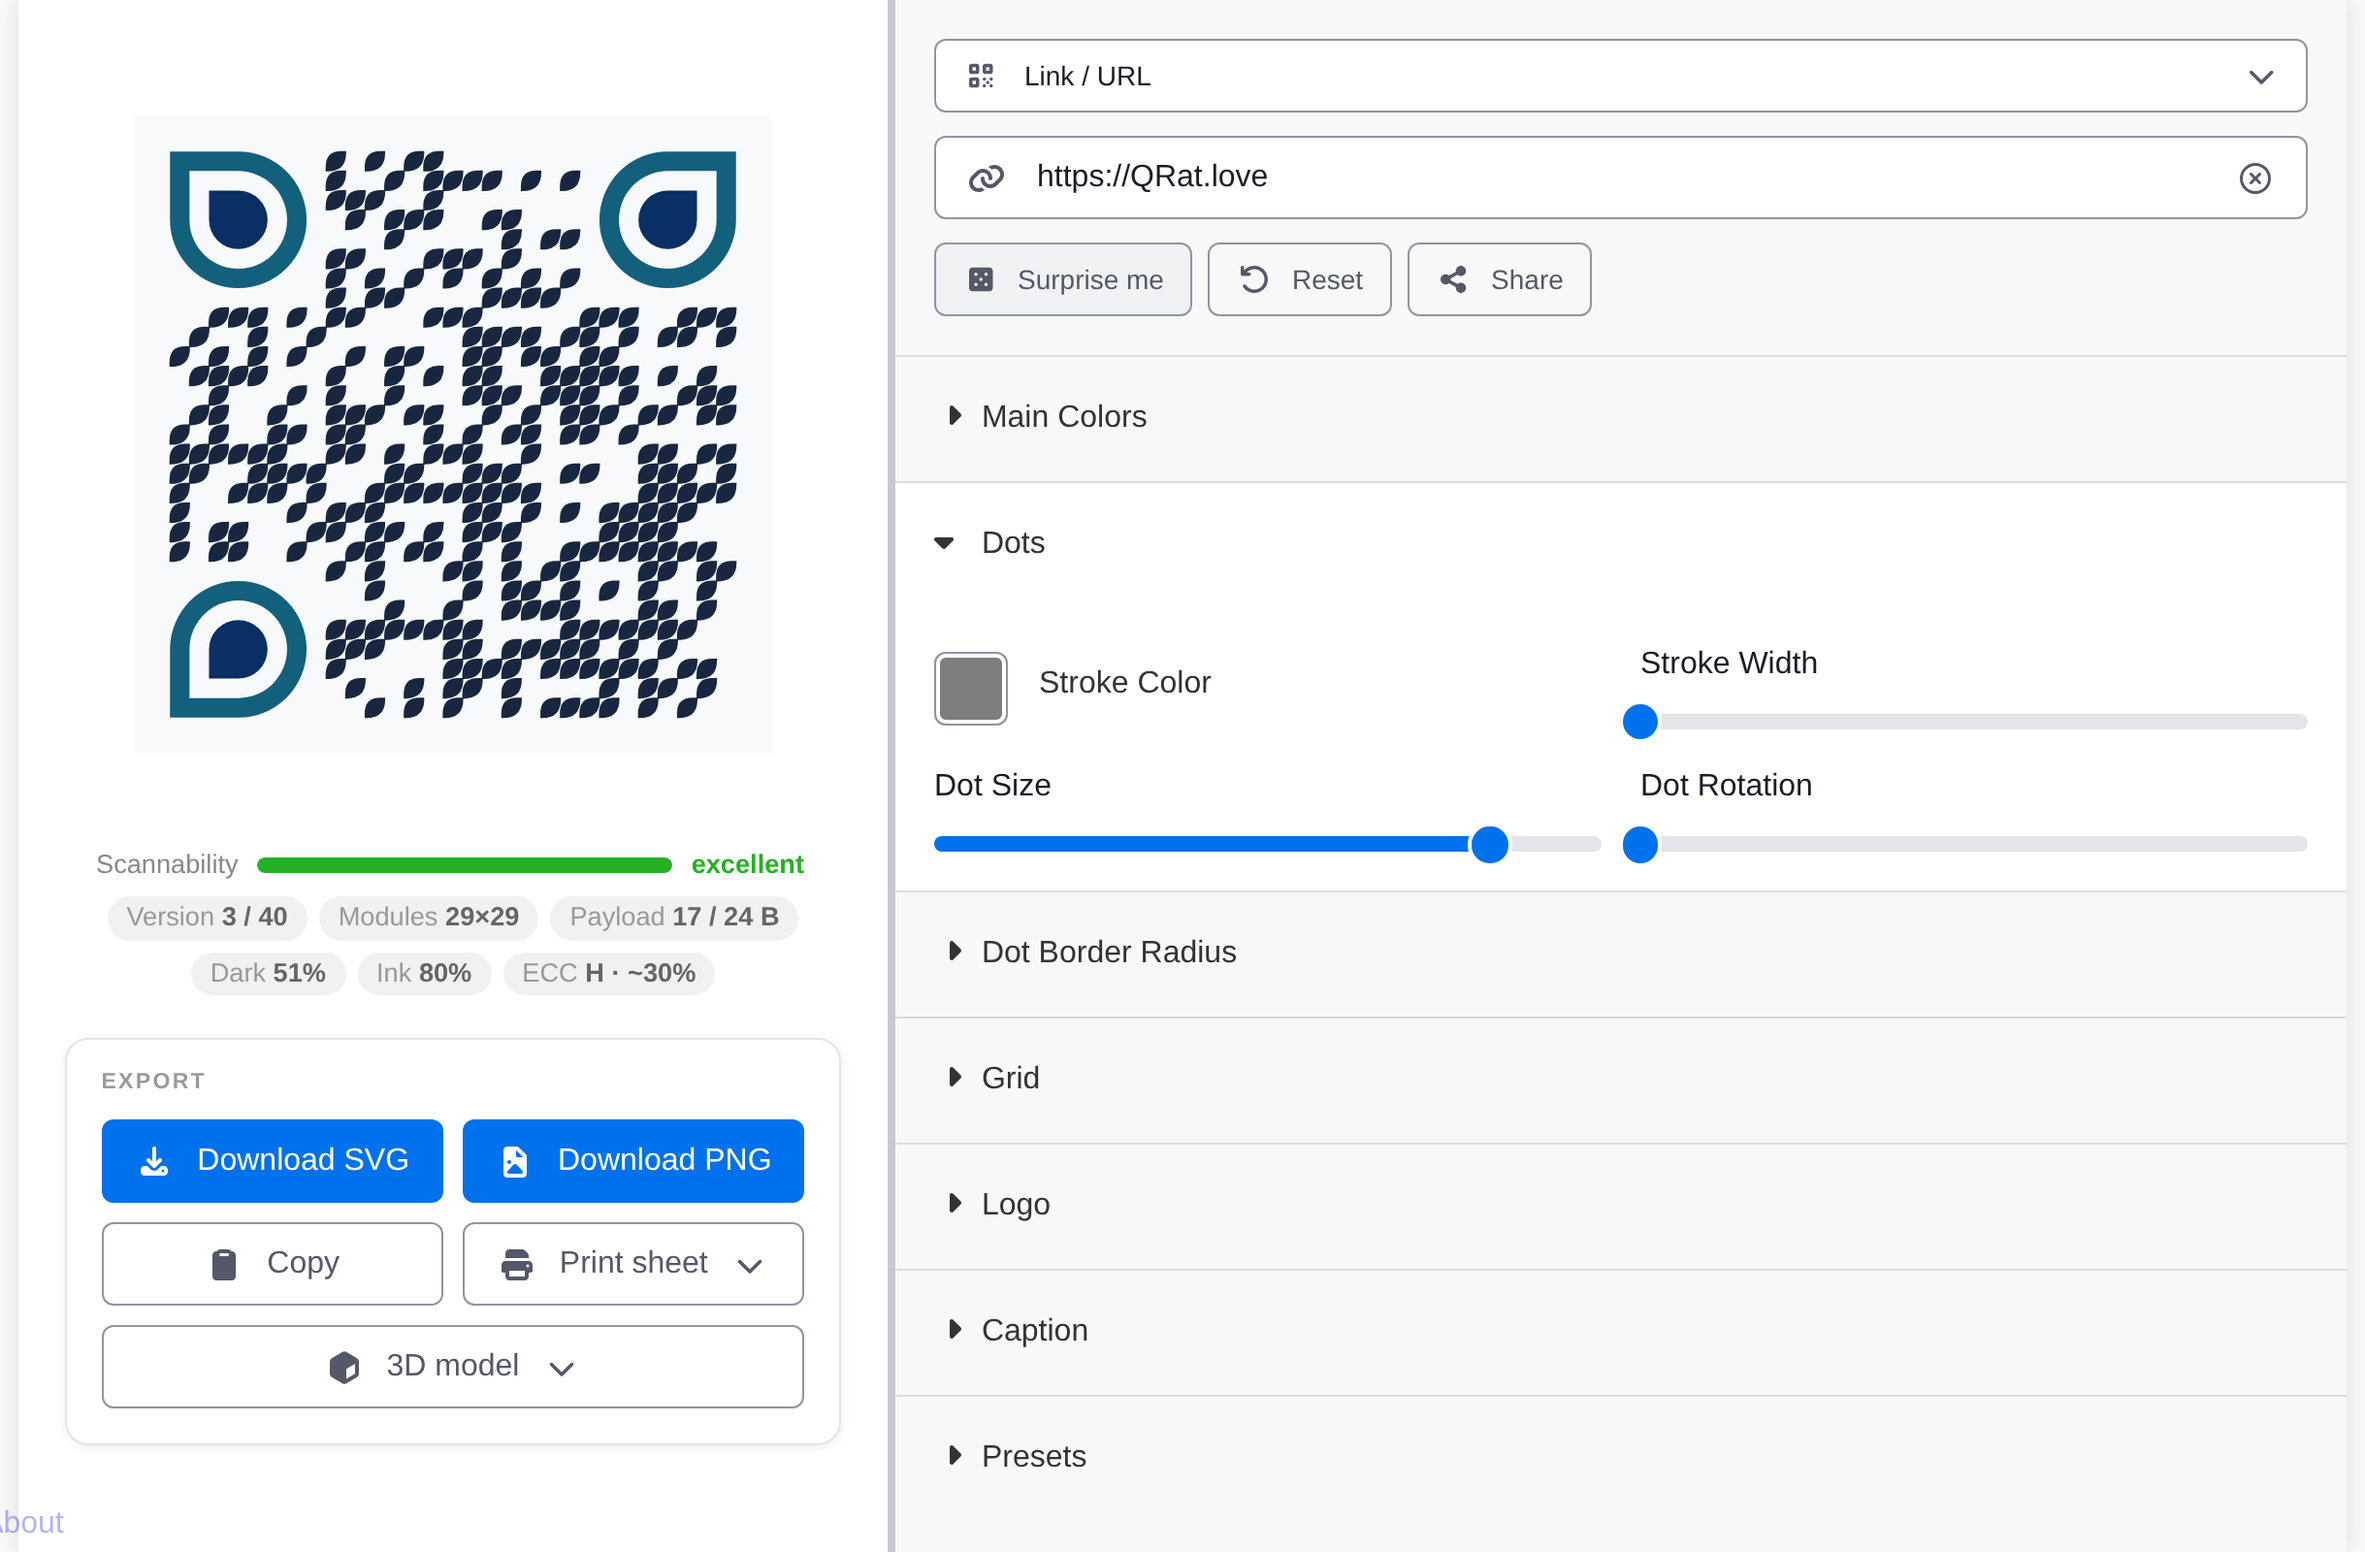
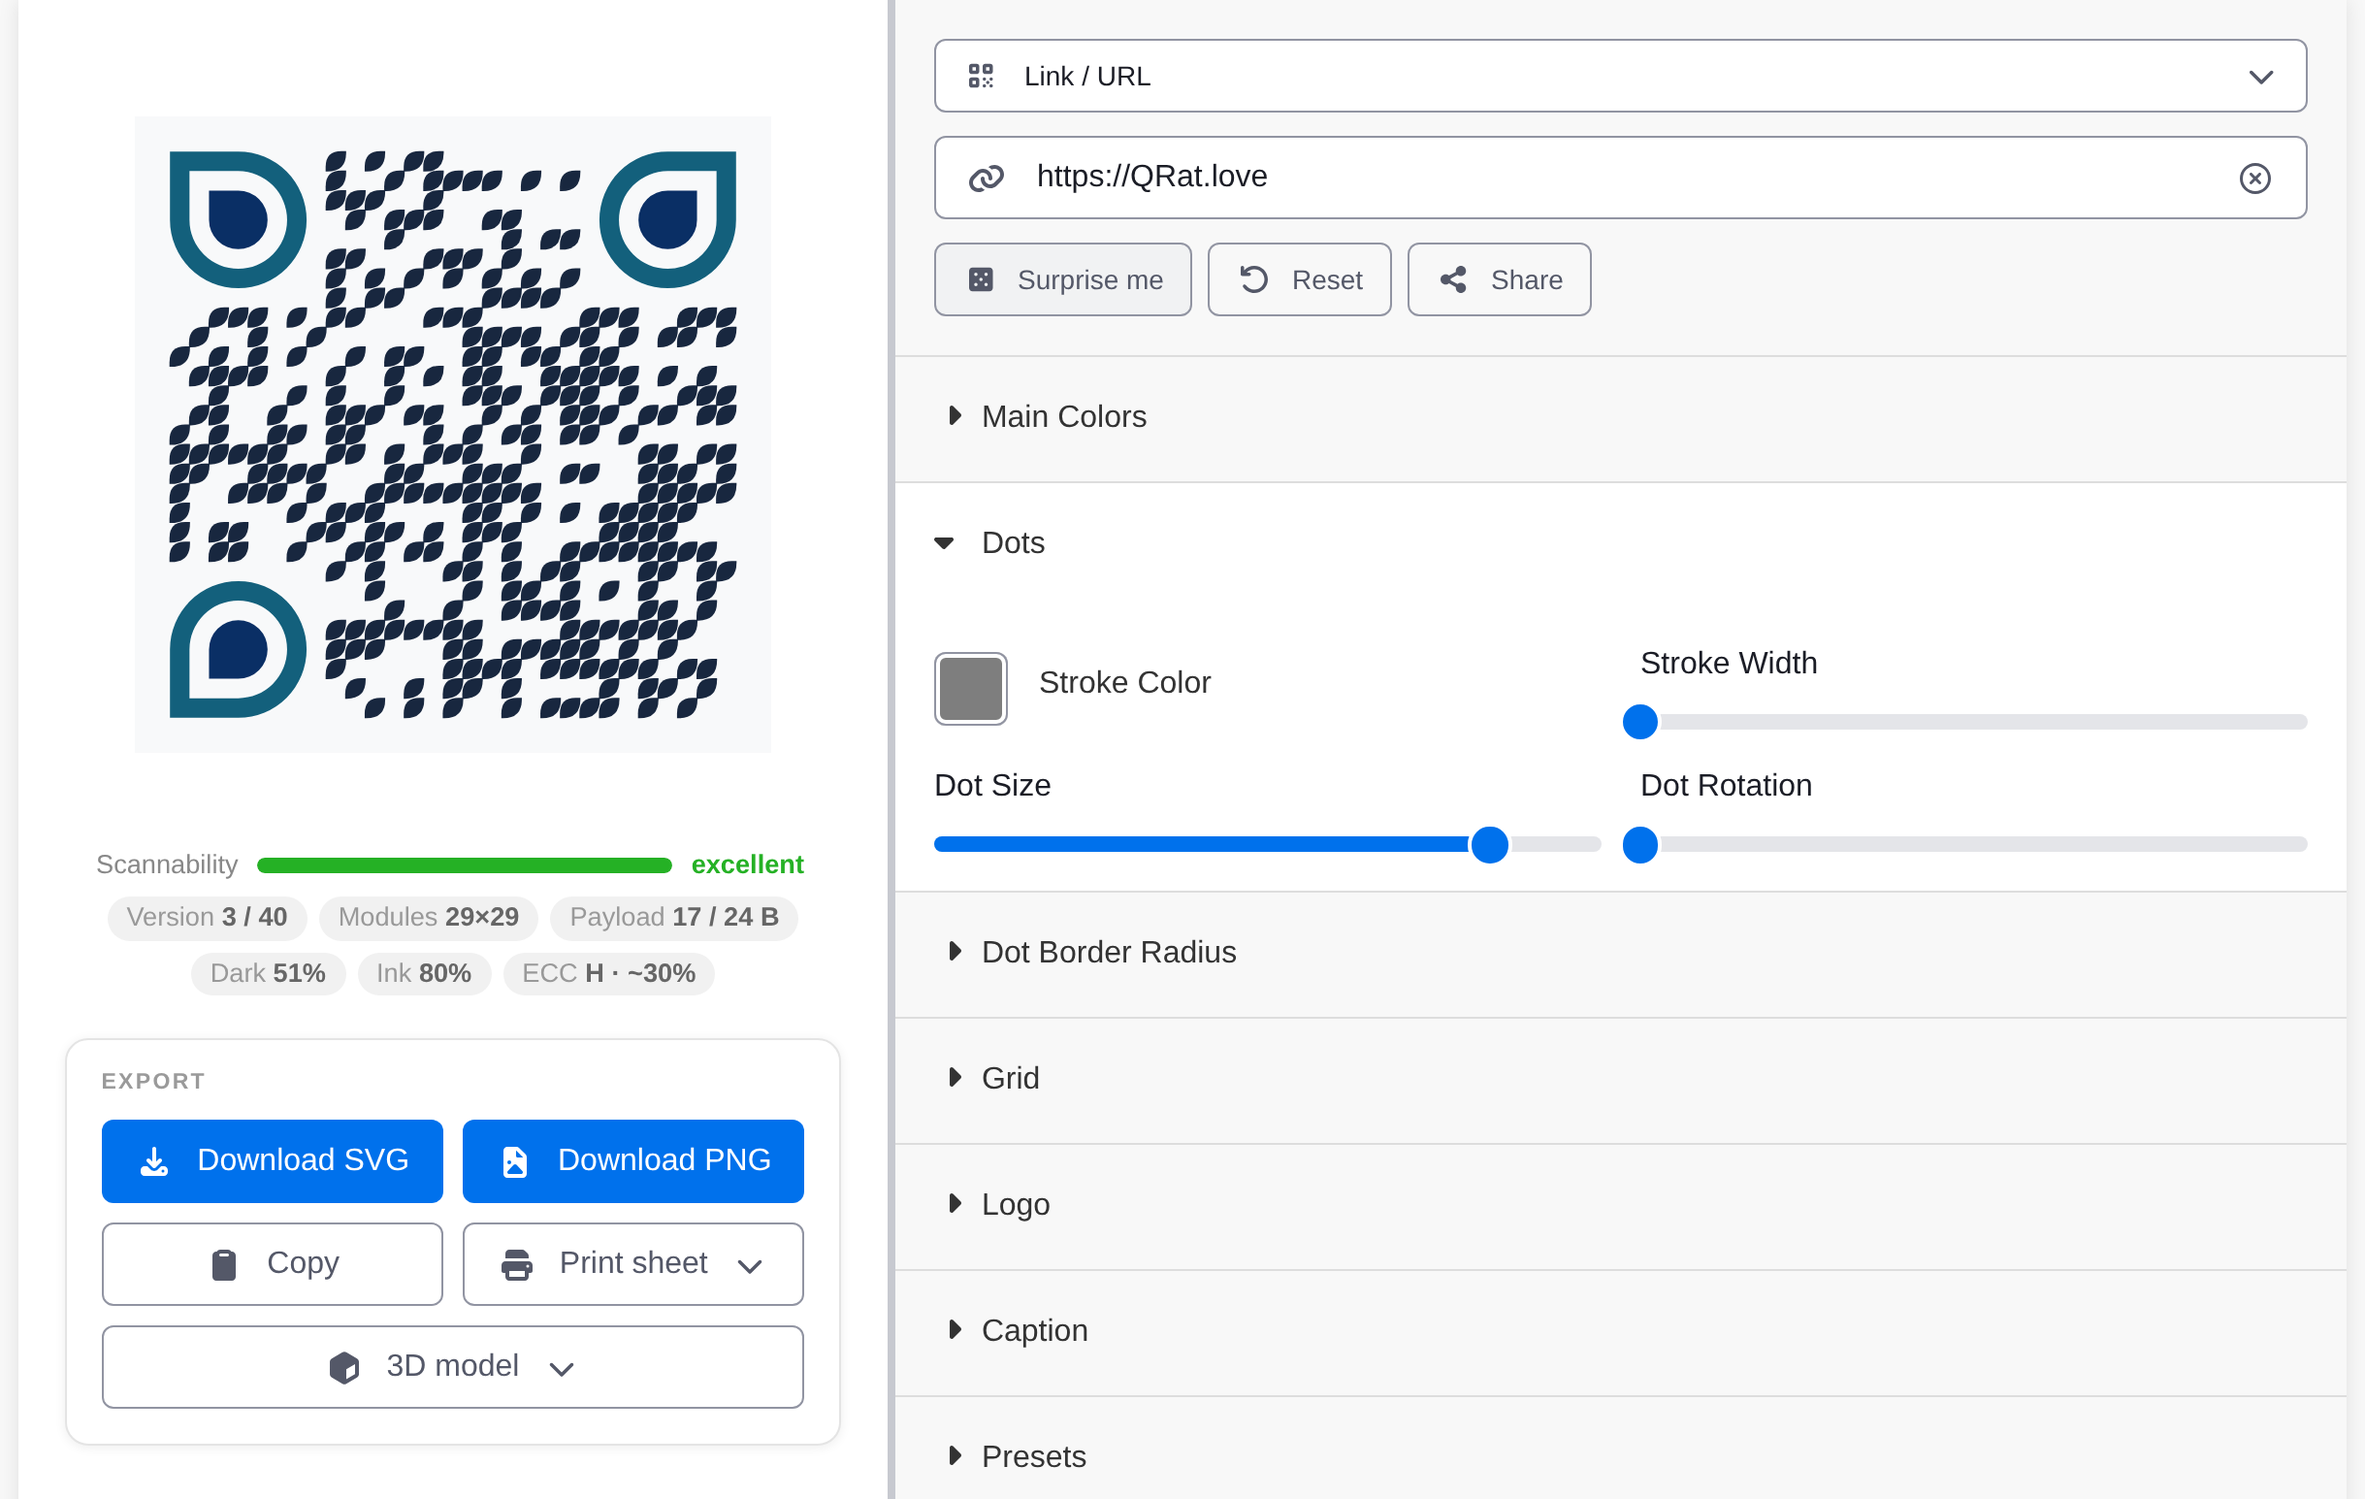
Credit RelayBar screenshot and fix review findings
L-K-M/RelayBar is a fork of lx2026/RelayBar, and its tunnels screenshot
was committed upstream by Lingxi Shang, so it is third-party MIT work
like the Scratch and Shiori images. Ship its notice with the others and
check for it in the test and the CI and release jobs.

Caption GitEnough's second Linux image too, call Kirsch's scan a sample
print, and crop a clipped footer link off the QRat capture.

diff --git a/catalogue/assets/README.md b/catalogue/assets/README.md
@@ -66,14 +66,16 @@ screenshots retain the upstream image data.
 | whatsapp-backup.png | `whatsapp-backup/screenshot.png` |
 | seance.png | `Hauntware/seance/screenshot.png` |
 
-Four images show work from upstream projects that L-K-M forked, not L-K-M's own.
+Five images show work from upstream projects that L-K-M forked, not L-K-M's own.
 `scratch.png` (unchanged) and `scratch-icon.png` (resized) are by Eric Li, from
 [erictli/scratch](https://github.com/erictli/scratch), MIT License. `shiori-web-ext.png`
 (unchanged) is by Radhi Fadlillah, from
 [go-shiori/shiori-web-ext](https://github.com/go-shiori/shiori-web-ext), MIT License,
 Copyright (c) 2019-present Radhi Fadlillah. `pararena2.png` shows John Calhoun's game
 graphics from [softdorothy/pararena_2](https://github.com/softdorothy/pararena_2), MIT
-License, Copyright (c) 2016 softdorothy. Their credits and license texts are in
+License, Copyright (c) 2016 softdorothy. `relaybar-scion.png` (unchanged) is by Lingxi
+Shang, from [lx2026/RelayBar](https://github.com/lx2026/RelayBar), MIT License,
+Copyright (c) 2026 RelayBar contributors. Their credits and license texts are in
 [`public/media-credits.txt`](../../public/media-credits.txt), which the generator copies
 into the site as `assets/media-credits.txt`. Keep that file in step when adding images
 from other projects.

diff --git a/README.md b/README.md
@@ -265,9 +265,9 @@ apps-site's own code is released under the [Unlicense](LICENSE). The generated s
 bundles third-party fonts, icons and images, which keep their own terms: Pirata One and
 Instrument Sans (SIL Open Font License 1.1), C64 Keyboard (its pinned upstream revision
 states no license), Bootstrap Icons (MIT) and, when their apps are visible, a screenshot
-and icon from Eric Li's Scratch, a screenshot from Radhi Fadlillah's Shiori Web Extension
-and a Pararena 2 screenshot showing John Calhoun's game graphics (all MIT). Their notices
-ship in the site:
+and icon from Eric Li's Scratch, a screenshot from Radhi Fadlillah's Shiori Web Extension,
+a screenshot from Lingxi Shang's RelayBar and a Pararena 2 screenshot showing John
+Calhoun's game graphics (all MIT). Their notices ship in the site:
 
 - `assets/fonts/OFL-pirata-one.txt`
 - `assets/fonts/OFL-instrument-sans.txt`
